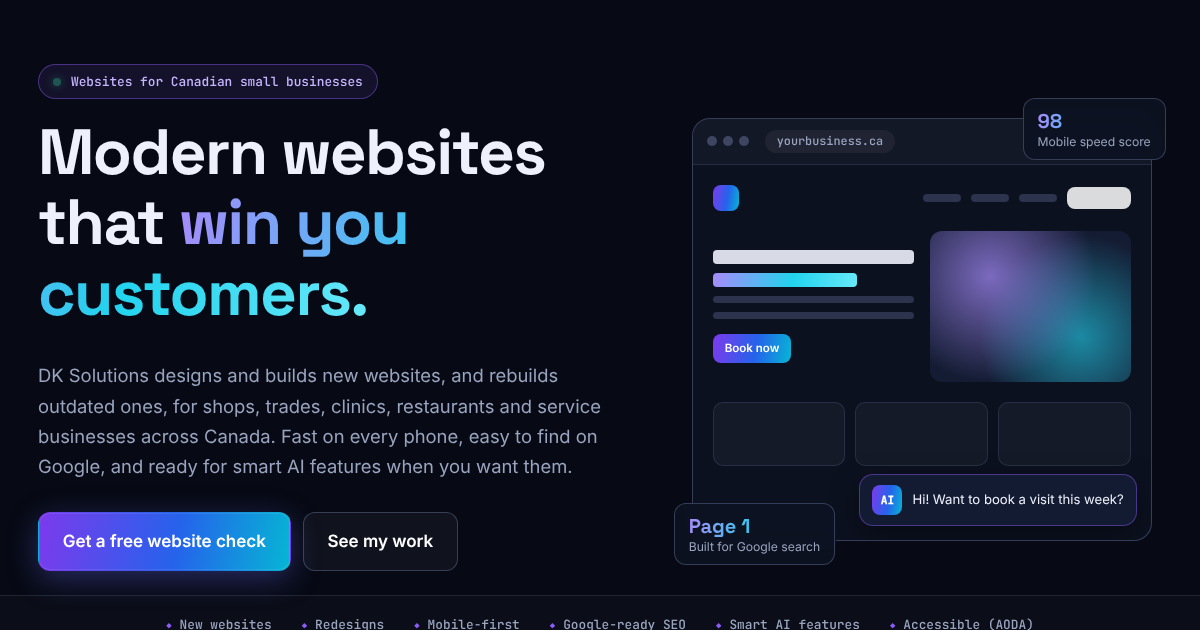
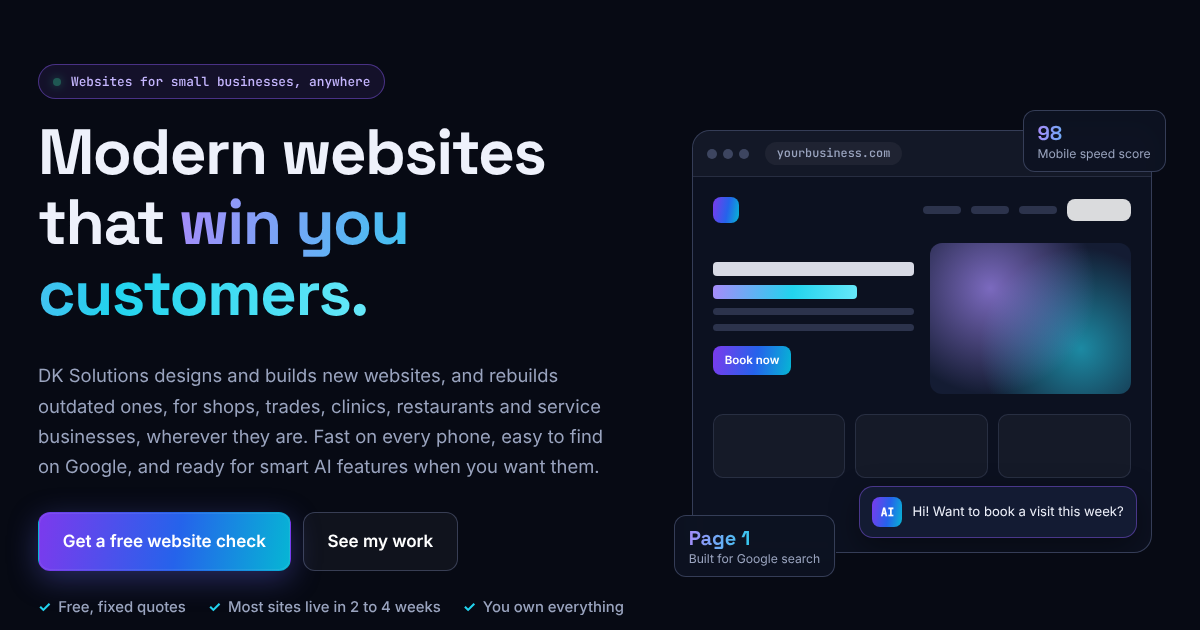
Make site copy global instead of Canada-only
Rewrite hero, meta/OG tags, structured data (areaServed Worldwide), FAQ,
contact details, footer and demo assistant answers so the site targets
small businesses anywhere while still saying it is based in Ottawa, Canada.
Regenerate the social preview image from the updated hero.

Claude-Session: https://claude.ai/code/session_01LJLXcPd1DAaLwbLJsRPAiA

diff --git a/index.html b/index.html
@@ -1,16 +1,16 @@
 <!doctype html>
-<html lang="en-CA">
+<html lang="en">
 <head>
 <meta charset="utf-8">
 <meta name="viewport" content="width=device-width, initial-scale=1">
-<title>DK Solutions | Websites for Canadian Small Businesses</title>
-<meta name="description" content="DK Solutions designs and builds modern websites for Canadian small businesses: new websites, redesigns of outdated sites, local SEO, booking forms and smart AI features. Based in Ottawa. Free website check.">
+<title>DK Solutions | Websites for Small Businesses</title>
+<meta name="description" content="DK Solutions designs and builds modern websites for small businesses anywhere: new websites, redesigns of outdated sites, local SEO, booking forms and smart AI features. Based in Canada, working worldwide. Free website check.">
 <link rel="canonical" href="https://dksolutions.dev/">
 <meta name="theme-color" content="#070a14">
 <meta property="og:type" content="website">
 <meta property="og:site_name" content="DK Solutions">
-<meta property="og:title" content="DK Solutions: modern websites for Canadian small businesses">
-<meta property="og:description" content="New websites and redesigns for small businesses across Canada. Fast, mobile-first, easy to find on Google, with smart AI features built in. Based in Ottawa.">
+<meta property="og:title" content="DK Solutions: modern websites for small businesses">
+<meta property="og:description" content="New websites and redesigns for small businesses anywhere in the world. Fast, mobile-first, easy to find on Google, with smart AI features built in. Based in Canada.">
 <meta property="og:url" content="https://dksolutions.dev/">
 <meta property="og:image" content="https://dksolutions.dev/assets/img/og.png">
 <meta name="twitter:card" content="summary_large_image">
@@ -21,7 +21,7 @@
 <link rel="stylesheet" href="https://fonts.googleapis.com/css2?family=Space+Grotesk:wght@500;600;700&family=Inter:wght@400;500;600&family=JetBrains+Mono:wght@500&display=swap">
 <link rel="stylesheet" href="assets/css/style.css?v=4">
 <script type="application/ld+json">
-{"@context":"https://schema.org","@type":"ProfessionalService","name":"DK Solutions","url":"https://dksolutions.dev/","email":"contact@dksolutions.dev","description":"Website design and development for Canadian small businesses: new websites, redesigns, local SEO and smart AI features.","areaServed":{"@type":"Country","name":"Canada"},"address":{"@type":"PostalAddress","addressLocality":"Ottawa","addressRegion":"ON","addressCountry":"CA"},"founder":{"@type":"Person","name":"Deep Patel","sameAs":["https://www.linkedin.com/in/deep-patel-0301/","https://github.com/deep-0301","https://medium.com/@deep0301"]}}
+{"@context":"https://schema.org","@type":"ProfessionalService","name":"DK Solutions","url":"https://dksolutions.dev/","email":"contact@dksolutions.dev","description":"Website design and development for small businesses anywhere: new websites, redesigns, local SEO and smart AI features.","areaServed":"Worldwide","address":{"@type":"PostalAddress","addressLocality":"Ottawa","addressRegion":"ON","addressCountry":"CA"},"founder":{"@type":"Person","name":"Deep Patel","sameAs":["https://www.linkedin.com/in/deep-patel-0301/","https://github.com/deep-0301","https://medium.com/@deep0301"]}}
 </script>
 </head>
 <body>
@@ -54,9 +54,9 @@
 <section class="hero">
   <div class="wrap hero-grid">
     <div class="hero-copy">
-      <p class="pill"><span class="dot" aria-hidden="true"></span>Websites for Canadian small businesses</p>
+      <p class="pill"><span class="dot" aria-hidden="true"></span>Websites for small businesses, anywhere</p>
       <h1>Modern websites that <span class="grad">win you customers.</span></h1>
-      <p class="lead">DK Solutions designs and builds new websites, and rebuilds outdated ones, for shops, trades, clinics, restaurants and service businesses across Canada. Fast on every phone, easy to find on Google, and ready for smart AI features when you want them.</p>
+      <p class="lead">DK Solutions designs and builds new websites, and rebuilds outdated ones, for shops, trades, clinics, restaurants and service businesses, wherever they are. Fast on every phone, easy to find on Google, and ready for smart AI features when you want them.</p>
       <div class="hero-cta">
         <a class="btn" href="#contact">Get a free website check</a>
         <a class="btn btn-ghost" href="#work">See my work</a>
@@ -70,7 +70,7 @@
 
     <div class="hero-visual" aria-hidden="true">
       <div class="browser">
-        <div class="browser-bar"><i></i><i></i><i></i><span>yourbusiness.ca</span></div>
+        <div class="browser-bar"><i></i><i></i><i></i><span>yourbusiness.com</span></div>
         <div class="browser-body">
           <div class="mock-nav"><b></b><span></span><span></span><span></span><em></em></div>
           <div class="mock-hero">
@@ -94,7 +94,7 @@
     <span>Mobile-first</span>
     <span>Google-ready SEO</span>
     <span>Smart AI features</span>
-    <span>Accessible (AODA)</span>
+    <span>Accessible (WCAG 2.1 AA)</span>
   </div>
 </section>
 
@@ -300,7 +300,7 @@
   <div class="wrap about-grid">
     <div class="about-copy">
       <p class="eyebrow">// about</p>
-      <h2>A local web developer you can actually reach.</h2>
+      <h2>A web developer you can actually reach.</h2>
       <p>I'm Deep Patel, founder of DK Solutions and a developer in Ottawa with a Master of Engineering in Electrical and Computer Engineering from Carleton University. I've built websites and web apps for a government research institute, an IT services company, a manufacturer and Ottawa's transit workers.</p>
       <p>When you work with DK Solutions, you deal with one person from first call to launch. I reply quickly, explain things in plain English, and build websites that you own outright, with no lock-in.</p>
       <ul class="creds">
@@ -346,15 +346,15 @@
       </details>
       <details>
         <summary>Can you make it bilingual?</summary>
-        <p>Yes. I can build English and French versions of your website with a language switch.</p>
+        <p>Yes. I can build your website in English plus another language, such as French or Spanish, with a language switch.</p>
       </details>
       <details>
-        <summary>Will my site meet Ontario accessibility rules (AODA)?</summary>
-        <p>I build to WCAG 2.1 AA, the standard AODA refers to: readable contrast, keyboard navigation, image descriptions and properly labelled forms.</p>
+        <summary>Will my site meet accessibility rules?</summary>
+        <p>I build to WCAG 2.1 AA, the standard most accessibility laws refer to, including the ADA in the US, AODA in Ontario and the European Accessibility Act: readable contrast, keyboard navigation, image descriptions and properly labelled forms.</p>
       </details>
       <details>
-        <summary>Do you only work with businesses in Ottawa?</summary>
-        <p>No. I'm based in Ottawa and happy to meet locally, but I work with small businesses anywhere in Canada over phone and video.</p>
+        <summary>Do you only work with businesses in Canada?</summary>
+        <p>No. I'm based in Ottawa, Canada, and happy to meet locally, but I work with small businesses anywhere in the world over email, phone and video calls.</p>
       </details>
     </div>
   </div>
@@ -369,7 +369,7 @@
       <ul class="contact-list">
         <li><a href="mailto:contact@dksolutions.dev">contact@dksolutions.dev</a></li>
         <li><a href="https://www.linkedin.com/in/deep-patel-0301/" target="_blank" rel="noopener">LinkedIn</a></li>
-        <li>Ottawa, Ontario, serving all of Canada</li>
+        <li>Based in Ottawa, Canada, working with clients worldwide</li>
       </ul>
     </div>
     <form class="form" id="contact-form" novalidate>
@@ -402,7 +402,7 @@
 
 <footer class="site-footer">
   <div class="wrap footer-row">
-    <p>&copy; <span data-year>2026</span> DK Solutions. Websites for Canadian small businesses.</p>
+    <p>&copy; <span data-year>2026</span> DK Solutions. Websites for small businesses, anywhere.</p>
     <nav aria-label="Social">
       <a href="https://www.linkedin.com/in/deep-patel-0301/" target="_blank" rel="noopener">LinkedIn</a>
       <a href="https://github.com/deep-0301" target="_blank" rel="noopener">GitHub</a>

diff --git a/assets/js/main.js b/assets/js/main.js
@@ -33,22 +33,22 @@
      the same way a client's assistant answers only from their own business info. */
   var KB = [
     { k: ['hi', 'hello', 'hey', 'bonjour', 'salut'], a: 'Hi! I\'m the DK Solutions assistant. Ask me about new websites, redesigns, timelines, or how to get a free website check.' },
-    { k: ['services', 'service', 'offer', 'build', 'provide', 'sell', 'make'], a: 'DK Solutions builds new websites and redesigns outdated ones for Canadian small businesses, plus local SEO, booking and quote forms, optional AI features and monthly care. <a href="#services">See all services</a>.' },
+    { k: ['services', 'service', 'offer', 'build', 'provide', 'sell', 'make'], a: 'DK Solutions builds new websites and redesigns outdated ones for small businesses anywhere in the world, plus local SEO, booking and quote forms, optional AI features and monthly care. <a href="#services">See all services</a>.' },
     { k: ['new', 'online', 'start', 'launch'], a: 'A new website is designed around your business: mobile-first, fast, set up for Google, with a contact or booking form so visitors turn into customers. Most are live in 2 to 4 weeks.' },
     { k: ['existing', 'already', 'wix', 'squarespace', 'wordpress', 'shopify', 'current', 'redesign', 'old', 'outdated', 'slow'], a: 'Yes, DK Solutions redesigns existing websites, including Wix, Squarespace and WordPress sites. You keep your address and Google rankings, and get a faster, modern site. The free website check tells you what to fix first.' },
     { k: ['price', 'cost', 'much', 'pricing', 'quote', 'budget', 'expensive', 'cheap', 'afford'], a: 'Every project gets its own fixed quote, free, before any work starts. Tell Deep about your business in the <a href="#contact">contact form</a> and you\'ll usually hear back within one business day.' },
     { k: ['long', 'time', 'timeline', 'weeks', 'fast', 'quick', 'when'], a: 'Most Starter websites go live in about 2 weeks and Business websites in 3 to 4 weeks. Redesigns depend on the size of your current site.' },
     { k: ['seo', 'google', 'search', 'rank', 'found', 'maps'], a: 'Every site is built to be found: page titles, structured data, a sitemap, and a properly set up Google Business Profile so you show up on Google and Maps.' },
     { k: ['chatbot', 'assistant', 'bot', 'ai', 'chat', 'automation'], a: 'AI features are optional extras. You\'re using one right now: an assistant that answers customer questions 24/7 from your own business info and passes anything else to you.' },
-    { k: ['french', 'francais', 'français', 'bilingual', 'language', 'quebec'], a: 'Oui! Websites can be built in English and French with a language switch.' },
+    { k: ['french', 'francais', 'français', 'bilingual', 'language', 'quebec'], a: 'Yes. Websites can be built in English plus another language, such as French or Spanish, with a language switch.' },
     { k: ['update', 'edit', 'change', 'maintain', 'care', 'maintenance', 'hosting'], a: 'You can make simple edits yourself and Deep will show you how. Or the optional care plan covers backups, updates and small changes every month.' },
-    { k: ['where', 'located', 'location', 'ottawa', 'canada', 'local', 'meet'], a: 'DK Solutions is based in Ottawa, Ontario, and works with small businesses anywhere in Canada by phone and video. Happy to meet in person around Ottawa.' },
+    { k: ['where', 'located', 'location', 'ottawa', 'canada', 'local', 'meet', 'country', 'usa', 'uk', 'outside', 'abroad', 'international', 'worldwide', 'remote'], a: 'DK Solutions is based in Ottawa, Canada, and works with small businesses anywhere in the world by email, phone and video. Happy to meet in person around Ottawa.' },
     { k: ['who', 'deep', 'dk', 'solutions', 'about', 'experience', 'background', 'qualified'], a: 'DK Solutions is run by Deep Patel, an Ottawa web developer with a Master of Engineering from Carleton University. <a href="#about">More about Deep</a>.' },
     { k: ['work', 'portfolio', 'examples', 'projects', 'past', 'example'], a: 'Recent work includes Listaro, a subscription web platform for Marketplace sellers (listaro.dev), a website redesign for Safal Embedded Solution, and a timesheet web app for Ottawa transit operators. <a href="#work">See the projects</a>.' },
     { k: ['contact', 'email', 'call', 'talk', 'reach', 'book', 'check', 'free'], a: 'The easiest way is the free website check: fill in the <a href="#contact">form</a> or email <a href="mailto:' + EMAIL + '">' + EMAIL + '</a>. Deep replies within one business day.' }
   ];
   var FALLBACK = 'Good question. I\'m a demo, so I only know about DK Solutions\' services. Send it through the <a href="#contact">contact form</a> and Deep will answer personally.';
-  var CHIPS = ['Can you redesign my website?', 'How long does a website take?', 'How do I get a quote?', 'Will I show up on Google?', 'Can it be in French?'];
+  var CHIPS = ['Can you redesign my website?', 'How long does a website take?', 'How do I get a quote?', 'Will I show up on Google?', 'Do you work outside Canada?'];
 
   function answer(q) {
     var words = q.toLowerCase().replace(/[^a-zàâçéèêëîïôûùüÿñæœ0-9\s]/gi, ' ').split(/\s+/).filter(Boolean);

diff --git a/404.html b/404.html
@@ -1,5 +1,5 @@
 <!doctype html>
-<html lang="en-CA">
+<html lang="en">
 <head>
 <meta charset="utf-8">
 <meta name="viewport" content="width=device-width, initial-scale=1">

diff --git a/README.md b/README.md
@@ -1,6 +1,6 @@
 # DK Solutions
 
-Website for DK Solutions, Deep Patel's Ottawa studio that builds new websites and redesigns for Canadian small businesses, with optional AI features.
+Website for DK Solutions, Deep Patel's Ottawa-based studio that builds new websites and redesigns for small businesses anywhere, with optional AI features.
 
 Live at **https://dksolutions.dev/**
 
